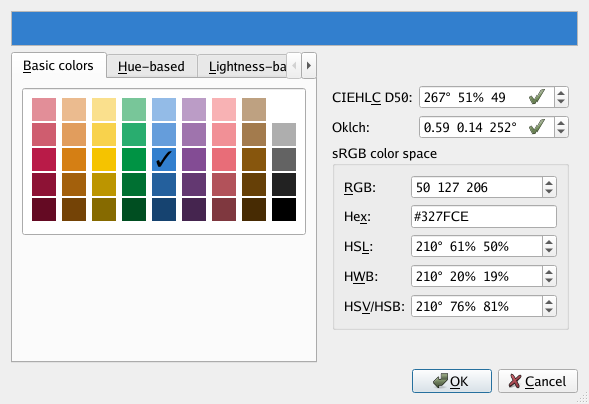
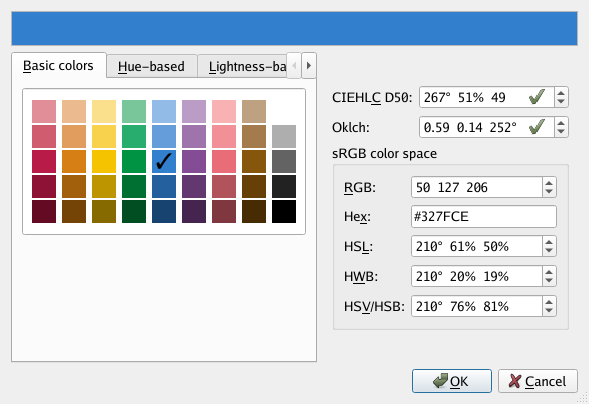
Better look & feel for SwatchBook

diff --git a/src/swatchbook.cpp b/src/swatchbook.cpp
@@ -18,12 +18,14 @@
 #include <array>
 #include <lcms2.h>
 #include <optional>
+#include <qapplication.h>
 #include <qcoreapplication.h>
 #include <qcoreevent.h>
 #include <qevent.h>
 #include <qfontmetrics.h>
 #include <qline.h>
 #include <qlist.h>
+#include <qmargins.h>
 #include <qnamespace.h>
 #include <qpainter.h>
 #include <qpainterpath.h>
@@ -32,6 +34,7 @@
 #include <qrect.h>
 #include <qsharedpointer.h>
 #include <qsizepolicy.h>
+#include <qstringliteral.h>
 #include <qstyle.h>
 #include <qstyleoption.h>
 #include <qtransform.h>
@@ -178,29 +181,12 @@ QSize SwatchBook::minimumSizeHint() const
 {
     ensurePolished();
 
-    const QSize myPatchSize = d_pointer->patchSizeOuter();
-    const int myColumnCount = //
-        static_cast<int>(d_pointer->m_paletteColors.count());
-    const int myRowCount = static_cast<int>( //
-        d_pointer->m_paletteColors.at(0).count());
-    QSize myContentSize;
-    myContentSize.setWidth( //
-        style()->pixelMetric(QStyle::PM_LayoutLeftMargin) //
-        + myColumnCount * myPatchSize.width() //
-        + (myColumnCount - 1) * d_pointer->horizontalPatchSpacing() //
-        + style()->pixelMetric(QStyle::PM_LayoutRightMargin));
-    myContentSize.setHeight( //
-        style()->pixelMetric(QStyle::PM_LayoutTopMargin) //
-        + myRowCount * myPatchSize.height() //
-        + (myRowCount - 1) * d_pointer->verticalPatchSpacing() //
-        + style()->pixelMetric(QStyle::PM_LayoutBottomMargin));
-
     QStyleOptionFrame myOption;
     d_pointer->initStyleOption(&myOption);
 
     return style()->sizeFromContents(QStyle::CT_LineEdit, //
                                      &myOption,
-                                     myContentSize,
+                                     d_pointer->colorPatchesSizeWithMargin(),
                                      this);
 }
 
@@ -383,23 +369,27 @@ QPoint SwatchBookPrivate::offset(const QStyleOptionFrame &styleOptionFrame) cons
         q_pointer->style()->pixelMetric(QStyle::PM_LayoutTopMargin));
 
     QStyleOptionFrame temp = styleOptionFrame; // safety copy
-    const QRect myContentRectangle = q_pointer->style()->subElementRect( //
+    const QRectF frameContentRectangle = q_pointer->style()->subElementRect( //
         QStyle::SE_LineEditContents,
         &temp, // Risk of changes, therefore using the safety copy
         q_pointer.toPointerToConstObject());
+    const QSizeF swatchbookContentSize = colorPatchesSizeWithMargin();
 
-    QPoint frameOffset = myContentRectangle.topLeft();
-    // In the Kvantum style in version 0.18, there was a bug
-    // https://github.com/tsujan/Kvantum/issues/676 that returned
-    // negative values here. This Kvantum bug broke this widget here.
-    // Therefore, it is well possible that other QStyle subclasses have
-    // the same bug. While the Kvantum is has been fixed in the meantime,
-    // to be sure we use this workaround, which isn’t perfect, but
-    // better than nothing:
-    frameOffset.rx() = qMax(frameOffset.x(), 0);
-    frameOffset.ry() = qMax(frameOffset.y(), 0);
+    // Some styles, such as the Fusion style, regularly return a slightly
+    // larger rectangle through QStyle::subElementRect() than the one
+    // requested in SwatchBook::minimumSizeHint(), which we need to draw
+    // the color patches. In the case of the Kvantum style,
+    // QStyle::subElementRect().height() is even greater than
+    // SwatchBook::height(). It extends beyond the widget's own dimensions,
+    // both at the top and bottom. QStyle::subElementRect().y() is
+    // negative. Please see https://github.com/tsujan/Kvantum/issues/676
+    // for more information. To ensure a visually pleasing rendering, we
+    // implement centering within QStyle::subElementRect().
+    QPointF frameOffset = frameContentRectangle.center();
+    frameOffset.rx() -= swatchbookContentSize.width() / 2.;
+    frameOffset.ry() -= swatchbookContentSize.height() / 2.;
 
-    return frameOffset + innerMarginOffset;
+    return (frameOffset + innerMarginOffset).toPoint();
 }
 
 /** @brief React on a mouse press event.
@@ -426,6 +416,10 @@ void SwatchBook::mousePressEvent(QMouseEvent *event)
     QStyleOptionFrame myFrameStyleOption;
     d_pointer->initStyleOption(&myFrameStyleOption);
     const QPoint temp = event->pos() - d_pointer->offset(myFrameStyleOption);
+
+    if ((temp.x() < 0) || (temp.y() < 0)) {
+        return; // Click position too much leftwards or upwards.
+    }
 
     const auto columnWidth = myPatchWidth + d_pointer->horizontalPatchSpacing();
     const int xWithinPatch = temp.x() % columnWidth;
@@ -525,10 +519,36 @@ void SwatchBook::paintEvent(QPaintEvent *event)
     const int patchHeightOuter = patchSizeOuter.height();
 
     // Draw the background
-    style()->drawPrimitive(QStyle::PE_PanelLineEdit, //
-                           &frameStyleOption,
-                           &widgetPainter,
-                           this);
+    {
+        // We draw the frame slightly shrunk on windowsvista style. Otherwise,
+        // when the windowsvista style is used on 125% scale factor and with
+        // a multi-monitor setup, the frame would sometimes not render on some
+        // borders.
+        const bool vistaStyle = QString::compare( //
+                                    QApplication::style()->objectName(),
+                                    QStringLiteral("windowsvista"),
+                                    Qt::CaseInsensitive)
+            == 0;
+        const int shrink = vistaStyle ? 1 : 0;
+        const QMargins margins(shrink, shrink, shrink, shrink);
+        auto shrunkFrameStyleOption = frameStyleOption;
+        shrunkFrameStyleOption.rect = frameStyleOption.rect - margins;
+        // NOTE On ukui style, drawing this primitive results in strange
+        // rendering on mouse hover. Actual behaviour: The whole panel
+        // background is drawn blue. Expected behaviour: Only the frame is
+        // drawn blue (as ukui actually does when rendering a QLineEdit).
+        // Playing around with PE_FrameLineEdit instead of or additional to
+        // PE_PanelLineEdit did not give better results either.
+        // As ukui has many, many graphical glitches and bugs (up to
+        // crashed unfixed for years), we assume that this is a problem of
+        // ukui, and not of our code. Furthermore, while the behavior is
+        // unexpected, the rendering doesn’t look completely terrible; we
+        // can live with that.
+        style()->drawPrimitive(QStyle::PE_PanelLineEdit, //
+                               &shrunkFrameStyleOption,
+                               &widgetPainter,
+                               this);
+    }
 
     // Draw the color patches
     const QPoint offset = d_pointer->offset(frameStyleOption);
@@ -849,6 +869,29 @@ QList<QList<QColor>> SwatchBookPrivate::wcsBasicColorPalette() const
     result << rgbList;
 
     return result;
+}
+
+/** @brief Size necessary to render the color patches, including a margin.
+ *
+ * @returns Size necessary to render the color patches, including a margin.
+ * Measured in device-independent pixels. */
+QSize SwatchBookPrivate::colorPatchesSizeWithMargin() const
+{
+    q_pointer->ensurePolished();
+    const QSize patchSize = patchSizeOuter();
+    const int columnCount = static_cast<int>(m_paletteColors.count());
+    const int rowCount = static_cast<int>(m_paletteColors.at(0).count());
+    const int width = //
+        q_pointer->style()->pixelMetric(QStyle::PM_LayoutLeftMargin) //
+        + columnCount * patchSize.width() //
+        + (columnCount - 1) * horizontalPatchSpacing() //
+        + q_pointer->style()->pixelMetric(QStyle::PM_LayoutRightMargin);
+    const int height = //
+        q_pointer->style()->pixelMetric(QStyle::PM_LayoutTopMargin) //
+        + rowCount * patchSize.height() //
+        + (rowCount - 1) * verticalPatchSpacing() //
+        + q_pointer->style()->pixelMetric(QStyle::PM_LayoutBottomMargin);
+    return QSize(width, height);
 }
 
 } // namespace PerceptualColor

diff --git a/src/swatchbook_p.h b/src/swatchbook_p.h
@@ -46,15 +46,16 @@ public:
      * the class as a whole is <tt>final</tt>. */
     ~SwatchBookPrivate() noexcept override = default;
 
-    [[nodiscard]] QList<QList<QColor>> wcsBasicColorPalette() const;
-    [[nodiscard]] QSize patchSizeOuter() const;
-    [[nodiscard]] QSize patchSizeInner() const;
+    [[nodiscard]] QSize colorPatchesSizeWithMargin() const;
     [[nodiscard]] int horizontalPatchSpacing() const;
     void initStyleOption(QStyleOptionFrame *option) const;
     [[nodiscard]] QPoint offset(const QStyleOptionFrame &styleOptionFrame) const;
+    [[nodiscard]] QSize patchSizeInner() const;
+    [[nodiscard]] QSize patchSizeOuter() const;
     void retranslateUi();
     void selectColorFromPalette(QListSizeType newCurrentBasicColor, QListSizeType newCurrentRow);
     [[nodiscard]] int verticalPatchSpacing() const;
+    [[nodiscard]] QList<QList<QColor>> wcsBasicColorPalette() const;
 
     /** @brief The colors of the palette.
      *
